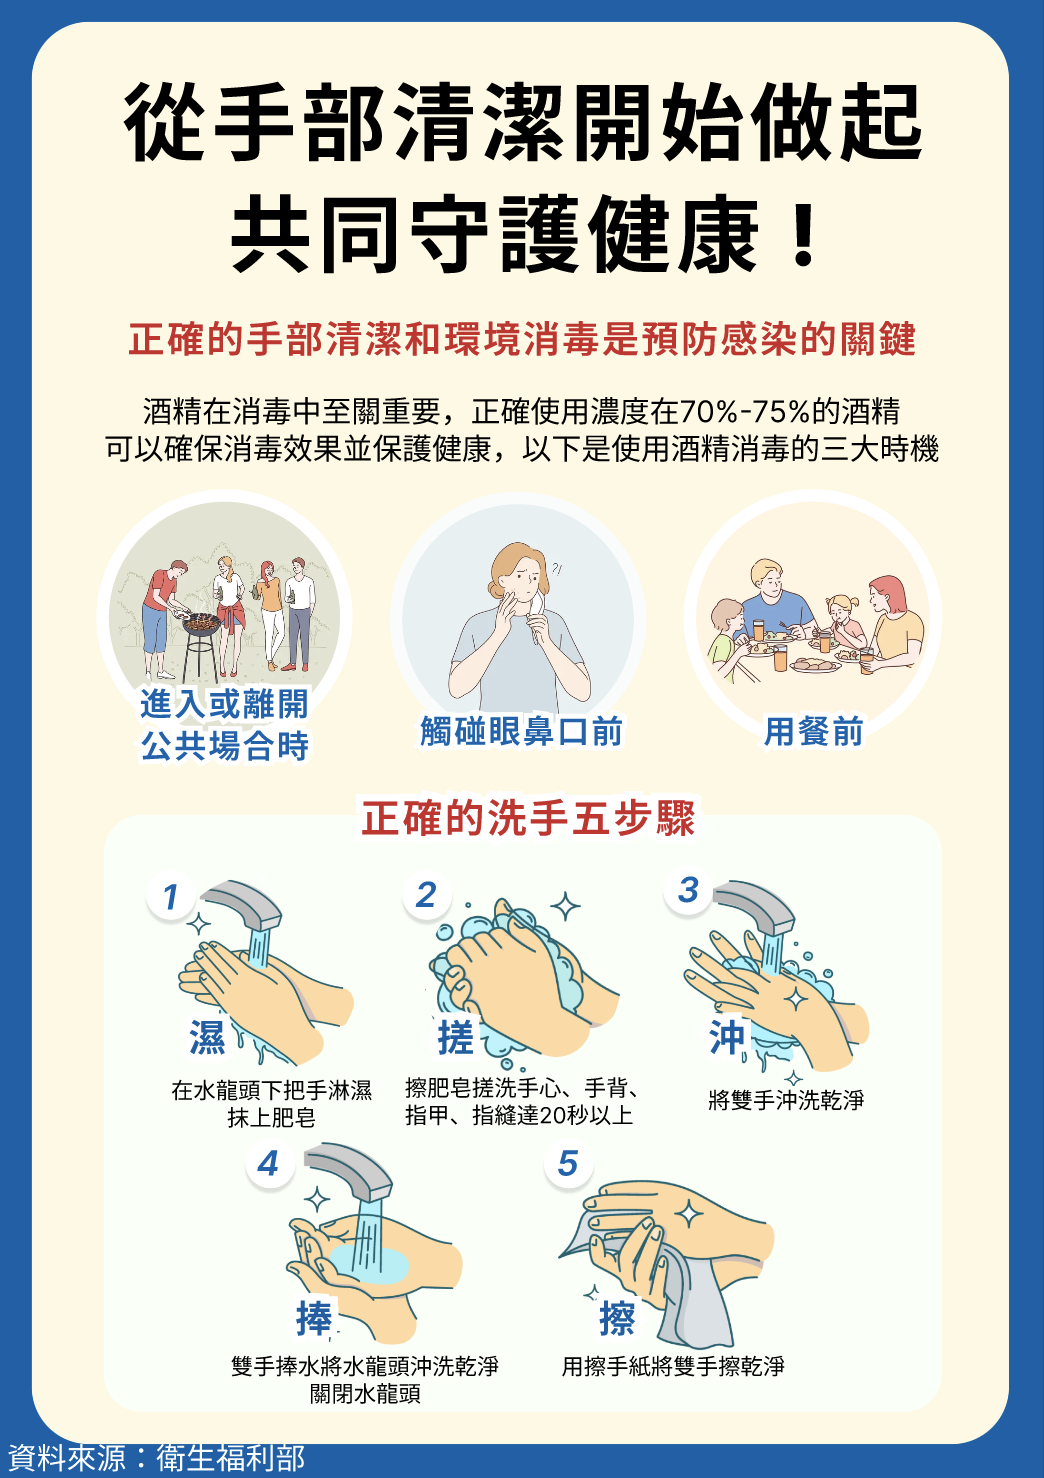
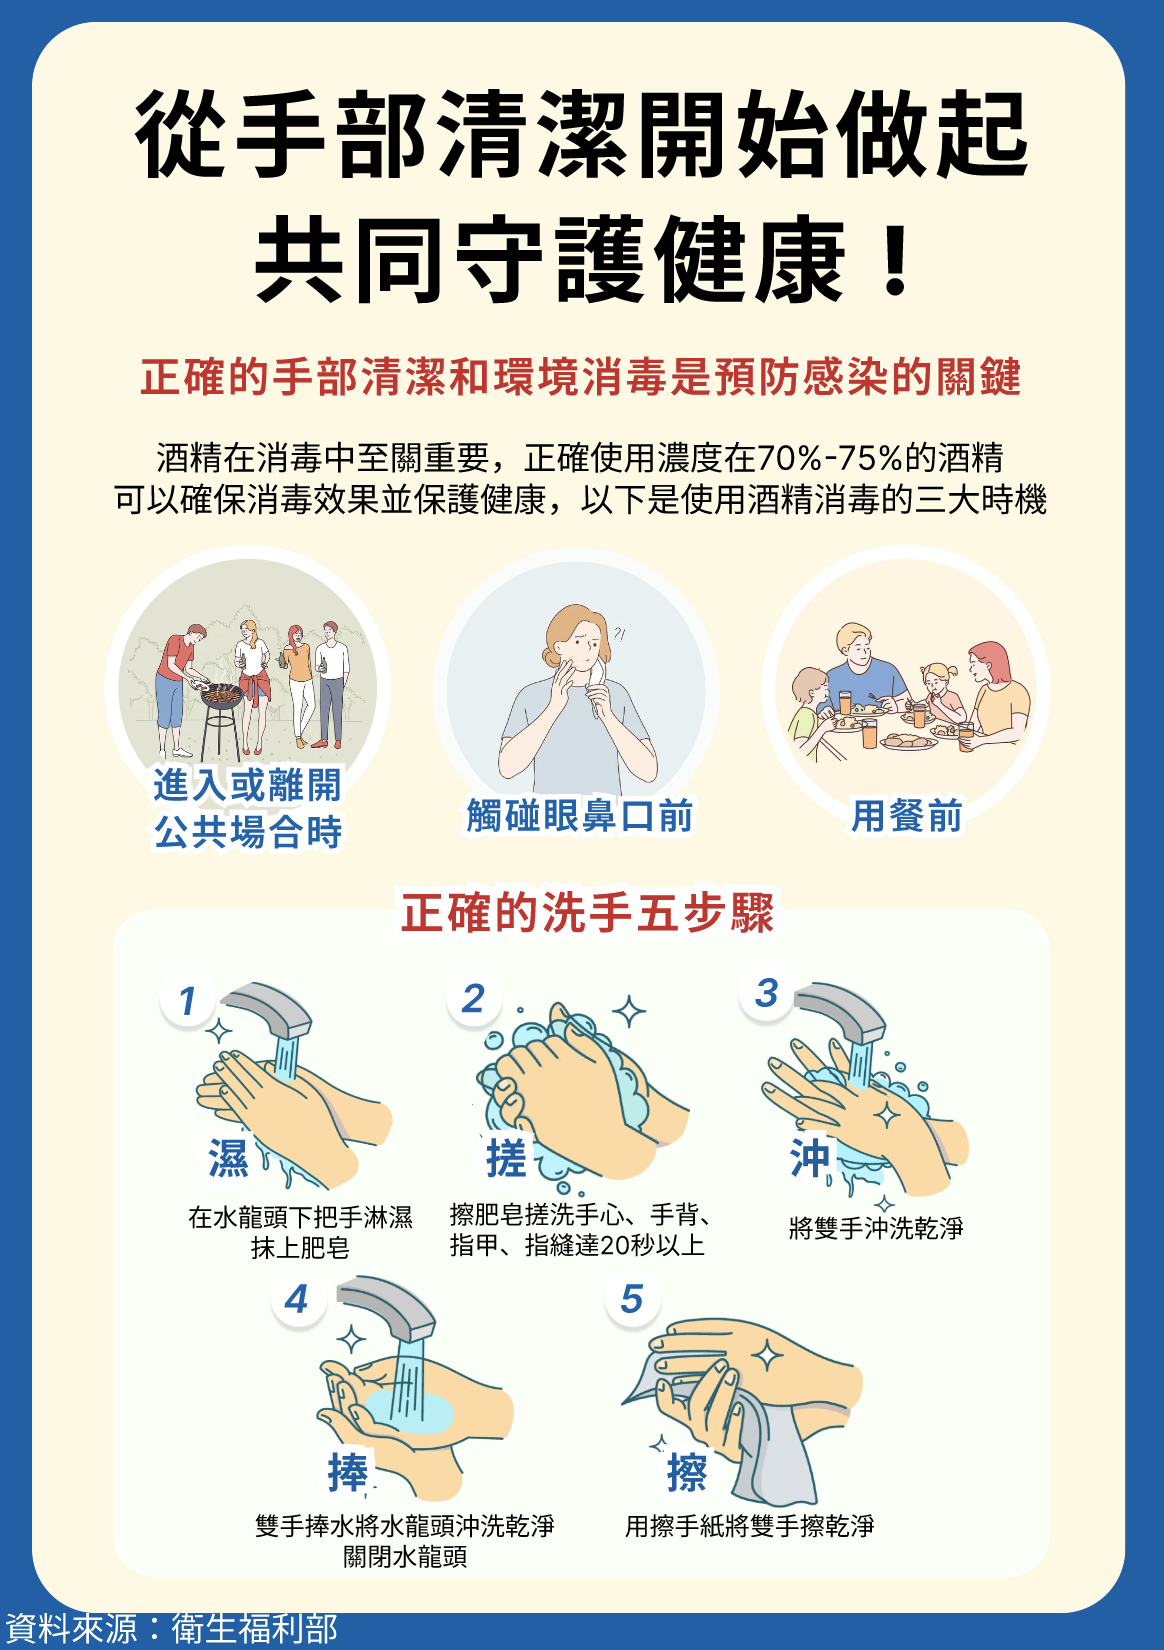
Health and set mes
made by YI, Hsuan, Ning

diff --git a/app/static/css/health.css b/app/static/css/health.css
@@ -78,17 +78,17 @@ div.content {
 .title-container {
     width: 100%;
     margin: 0 auto;
+    text-align: center;
 }
 
-.title-container .content-header {
-    color: #000000;
-    font-size: 30px;
-    letter-spacing: 5px;
-    width: 100%;
-    text-align: left;
-    margin-top: 30px;
-    margin-bottom: 35px;
+.content-header-image {
+    width: auto;
+    height: auto;
+    max-width: 100%;
+    display: inline-block;
+    margin-bottom: 20px;
 }
+
 
 div.content h1 {
     font-size: 30px;
@@ -160,7 +160,7 @@ div.content h1 {
     display: none;
     margin-top: 10px;
     background-color: #809f68;
-    color: #ffffff; 
+    color: #ffffff;
     font-size: 16px;
     border-radius: 20px;
     cursor: pointer;
@@ -170,8 +170,8 @@ div.content h1 {
     margin-bottom: 10px;
     height: 33px;
     width: 100px;
-    justify-content: center; 
-    align-items: center; 
+    justify-content: center;
+    align-items: center;
 }
 
 .title-underline {
@@ -188,29 +188,33 @@ div.content h1 {
 }
 
 .item-title i {
-    margin-left: 10px; 
-    font-size: 18px; 
+    margin-left: 10px;
+    font-size: 18px;
     color: #494949;
 }
 
-.form{
+.form {
     background-color: #f7f7f7;
-    border-radius: 8px; 
-    padding-left: 6px;
-    padding-right: 6px;
-    padding-top: 8px;
-    padding-bottom: 5px;
+    border-radius: 8px;
+    padding: 1px 6px 5px;
 }
 
-.form h3{
+.form h3 {
     color: #313131;
     font-weight: 600;
     margin-right: 5px;
     font-size: 1.17em;
-    margin-block-start: 10px;
-    margin-block-end: 10px;
+    margin-block-start: 0px;
+    margin-block-end: 0px;
     margin-inline-start: 0px;
-    margin-inline-end: 0px;
+    margin-top: 21px;
+}
+
+.content-header-image {
+    width: 100%;
+    height: auto;
+    display: block;
+    margin-bottom: 20px;
 }
 
 @media (min-width: 576px) {
@@ -254,7 +258,29 @@ div.content h1 {
     }
 }
 
-@media (min-width: 1200px) {}
+@media (min-width: 1200px) {
+    .title-underline {
+        border-bottom: 1px solid #000 !important;
+        margin-top: 5px !important;
+        margin-bottom: 15px;
+        margin-left: 20px;
+        margin-right: 20px;
+    }
+
+    .item-title {
+        display: flex;
+        justify-content: space-between;
+        align-items: center;
+        cursor: pointer;
+        padding-left: 20px;
+        padding-right: 20px;
+    }
+
+    .item-title i {
+        margin-left: 10px;
+        font-size: 20px;
+    }
+}
 
 @media (min-width: 1400px) {
     #menu-bar {
@@ -270,4 +296,27 @@ div.content h1 {
         padding-left: 110px;
     }
 
+    .title-container,
+    .form {
+        margin-left: 0px;
+        padding-left: 0px;
+        width: 100%;
+        padding-right: 0px;
+    }
+
+    .title-underline {
+        margin-left: 0px !important;
+    }
+
+    .item-title {
+        padding-left: 5px;
+    }
+
+    .form {
+        background-color: #f7f7f7;
+        border-radius: 8px;
+        padding: 1px 6px 5px;
+        max-width: 1180px;
+        margin: 0 auto;
+    }
 }

diff --git a/app/templates/health/health.html b/app/templates/health/health.html
@@ -2,10 +2,9 @@
 <html lang="zh-Hant">
 
 <head>
-    <meta charset="utf-8" name="viewport"
-    content="width=device-width, initial-scale=1.0, maximum-scale=1.0, user-scalable=no, viewport-fit=cover">
-    <!-- <meta charset="UTF-8">
-    <meta name="viewport" content="width=device-width, initial-scale=1.0"> -->
+    <meta charset="utf-8">
+    <meta name="viewport"
+        content="width=device-width, initial-scale=1.0, maximum-scale=1.0, user-scalable=no, viewport-fit=cover">
     <link rel="preconnect" href="https://fonts.googleapis.com">
     <link rel="preconnect" href="https://fonts.gstatic.com" crossorigin>
     <link href="https://fonts.googleapis.com/css2?family=Noto+Sans+TC&family=Satisfy&display=swap" rel="stylesheet">
@@ -29,7 +28,8 @@
     <div class="content">
 
         <div class="title-container">
-            <h1 class="content-header">{{ title }}</h1>
+            <img src="{{ url_for('static', filename='imgs/health/' + num + '.png') }}" alt="{{ num }}"
+                class="content-header-image">
         </div>
         <div class="form">
             {% for item in items %}
@@ -115,7 +115,7 @@
             var image = document.getElementById('image-' + index);
             var caret = document.getElementById('caret-' + index);
             var shareButton = document.getElementById('share-btn-' + index);
-            
+
             if (image.style.display === 'none' || image.style.display === '') {
                 image.style.display = 'block';
                 shareButton.style.display = 'inline-block';
@@ -129,6 +129,32 @@
             }
         }
 
+        function enlargeImage(img) {
+            var overlay = document.getElementById('overlay');
+            var viewport = document.querySelector('meta[name="viewport"]');
+
+            if (img.classList.contains('enlarged')) {
+                img.classList.remove('enlarged');
+                overlay.classList.remove('active');
+                viewport.setAttribute('content', 'width=device-width, initial-scale=1.0, maximum-scale=1.0, user-scalable=no, viewport-fit=cover');
+            } else {
+                img.classList.add('enlarged');
+                overlay.classList.add('active');
+                viewport.setAttribute('content', 'width=device-width, initial-scale=1.0, user-scalable=yes, viewport-fit=cover');
+            }
+        }
+
+        function closeImage() {
+            var enlargedImage = document.querySelector('.item-image.enlarged');
+            var overlay = document.getElementById('overlay');
+            var viewport = document.querySelector('meta[name="viewport"]');
+
+            if (enlargedImage) {
+                enlargedImage.classList.remove('enlarged');
+            }
+            overlay.classList.remove('active');
+            viewport.setAttribute('content', 'width=device-width, initial-scale=1.0, maximum-scale=1.0, user-scalable=no, viewport-fit=cover');
+        }
     </script>
 </body>
 

diff --git a/app/templates/set/old.html b/app/templates/set/old.html
@@ -40,7 +40,8 @@
                         <span class="value">
                             <input class="output" type="text" id='number' value="{{code_id}}" readonly>
                             <button class="btn" type="button" onclick="copy()">
-                                <img class="btn" src="/static/imgs/copy.png" alt="copy" id="share" onclick="shareCode()"></button>
+                                <img class="btn" src="/static/imgs/copy.png" alt="copy" id="share"
+                                    onclick="shareCode()"></button>
                         </span>
                         <br />
                         <script>
@@ -67,19 +68,42 @@
     });
 
     liff.init({ liffId: '{{liffid}}' })
-    
-    function shareCode(){
+
+    function shareCode() {
         liff.shareTargetPicker(
             [
                 {
-                    type: "text",
-                    text: "您的長輩邀請您加入照顧他的行列!\n點擊連結加入：https://liff.line.me/2004699458-OR9pkZjP/set/join_family/{{code_id}}",
-                },
+                    "type": "template",
+                    "altText": "加入家庭群組邀請",
+                    "template": {
+                        "type": "buttons",
+                        "thumbnailImageUrl": "https://silverease.ntub.edu.tw/static/imgs/family.png",
+                        "imageAspectRatio": "square",
+                        "imageSize": "cover",
+                        "imageBackgroundColor": "#FFFFFF",
+                        "title": "加入家庭群組",
+                        "text": "點擊下方按鈕加入家庭群組",
+                        "defaultAction": {
+                            "type": "uri",
+                            "label": "查看詳情",
+                            "uri": "https://liff.line.me/2004699458-OR9pkZjP/set/join_family/{{code_id}}"
+                        },
+                        "actions": [
+                            {
+                                "type": "uri",
+                                "label": "立即加入",
+                                "uri": "https://liff.line.me/2004699458-OR9pkZjP/set/join_family/{{code_id}}"
+                            }
+                        ]
+                    }
+                }
             ],
             {
                 isMultiple: true,
-            })
+            }
+        )
     }
+
 
 </script>
 

diff --git a/app/services/health/app.py b/app/services/health/app.py
@@ -125,7 +125,7 @@ def health_self():
         for symptom, count in sorted_symptom_counts
     ][:5]
 
-    return render_template("/health/health.html", title="個人推薦", items=image_items)
+    return render_template("/health/health.html", title="個人推薦", num = "A1", items=image_items)
 
 
 @health_bp.route("/<category>")
@@ -133,6 +133,7 @@ def health_category(category):
     data = {
         "death": {
             "title": "十大死因",
+            "num": "A2",
             "items": [
                 {"name": "惡性腫瘤(癌症)", "image": "D1.png"},
                 {"name": "心臟疾病", "image": "D2.png"},
@@ -148,6 +149,7 @@ def health_category(category):
         },
         "chronic": {
             "title": "十大慢性病",
+            "num": "A3",
             "items": [
                 {"name": "高血壓", "image": "C1.png"},
                 {"name": "糖尿病", "image": "C2.png"},
@@ -163,6 +165,7 @@ def health_category(category):
         },
         "precaution": {
             "title": "防疫專區",
+            "num": "A4",
             "items": [
                 {"name": "手部清潔", "image": "P1.png"},
                 {"name": "如何正確配戴口罩", "image": "P2.png"},
@@ -173,5 +176,6 @@ def health_category(category):
     return render_template(
         "/health/health.html",
         title=data[category]["title"],
+        num=data[category]["num"],
         items=data[category]["items"],
     )
